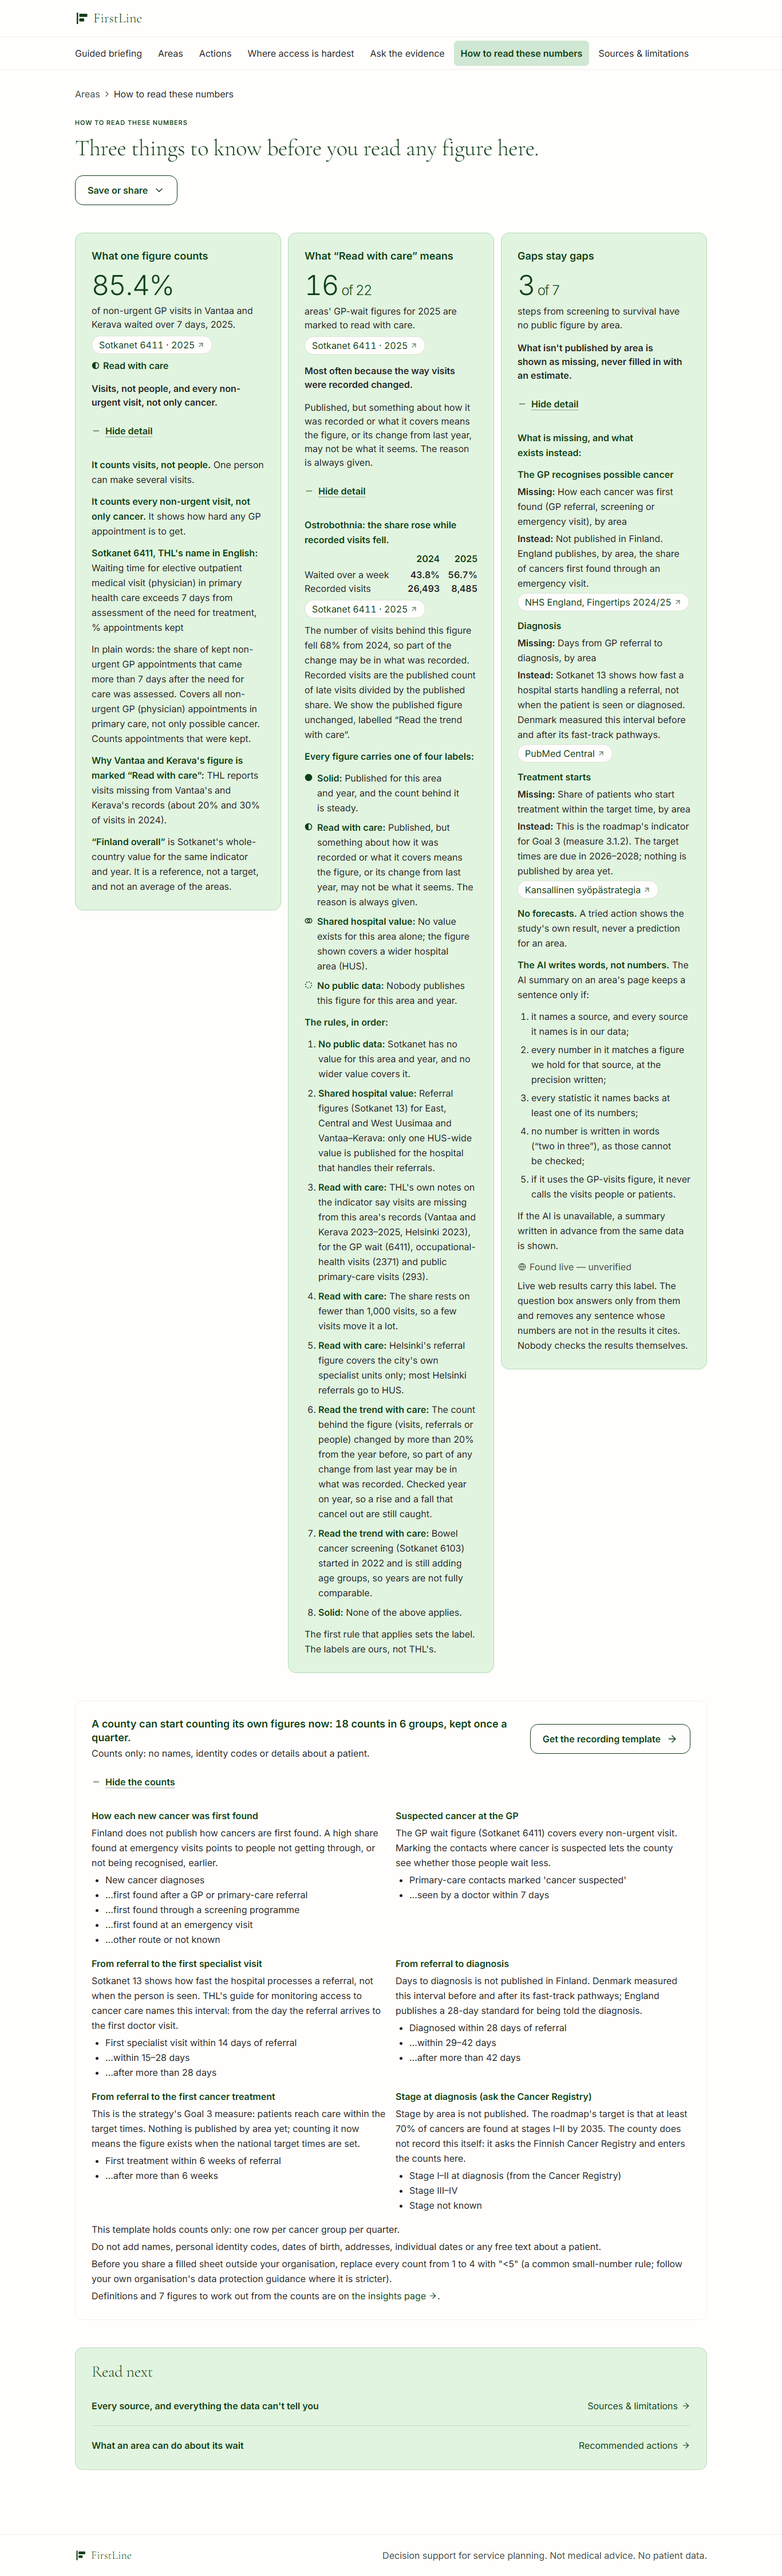
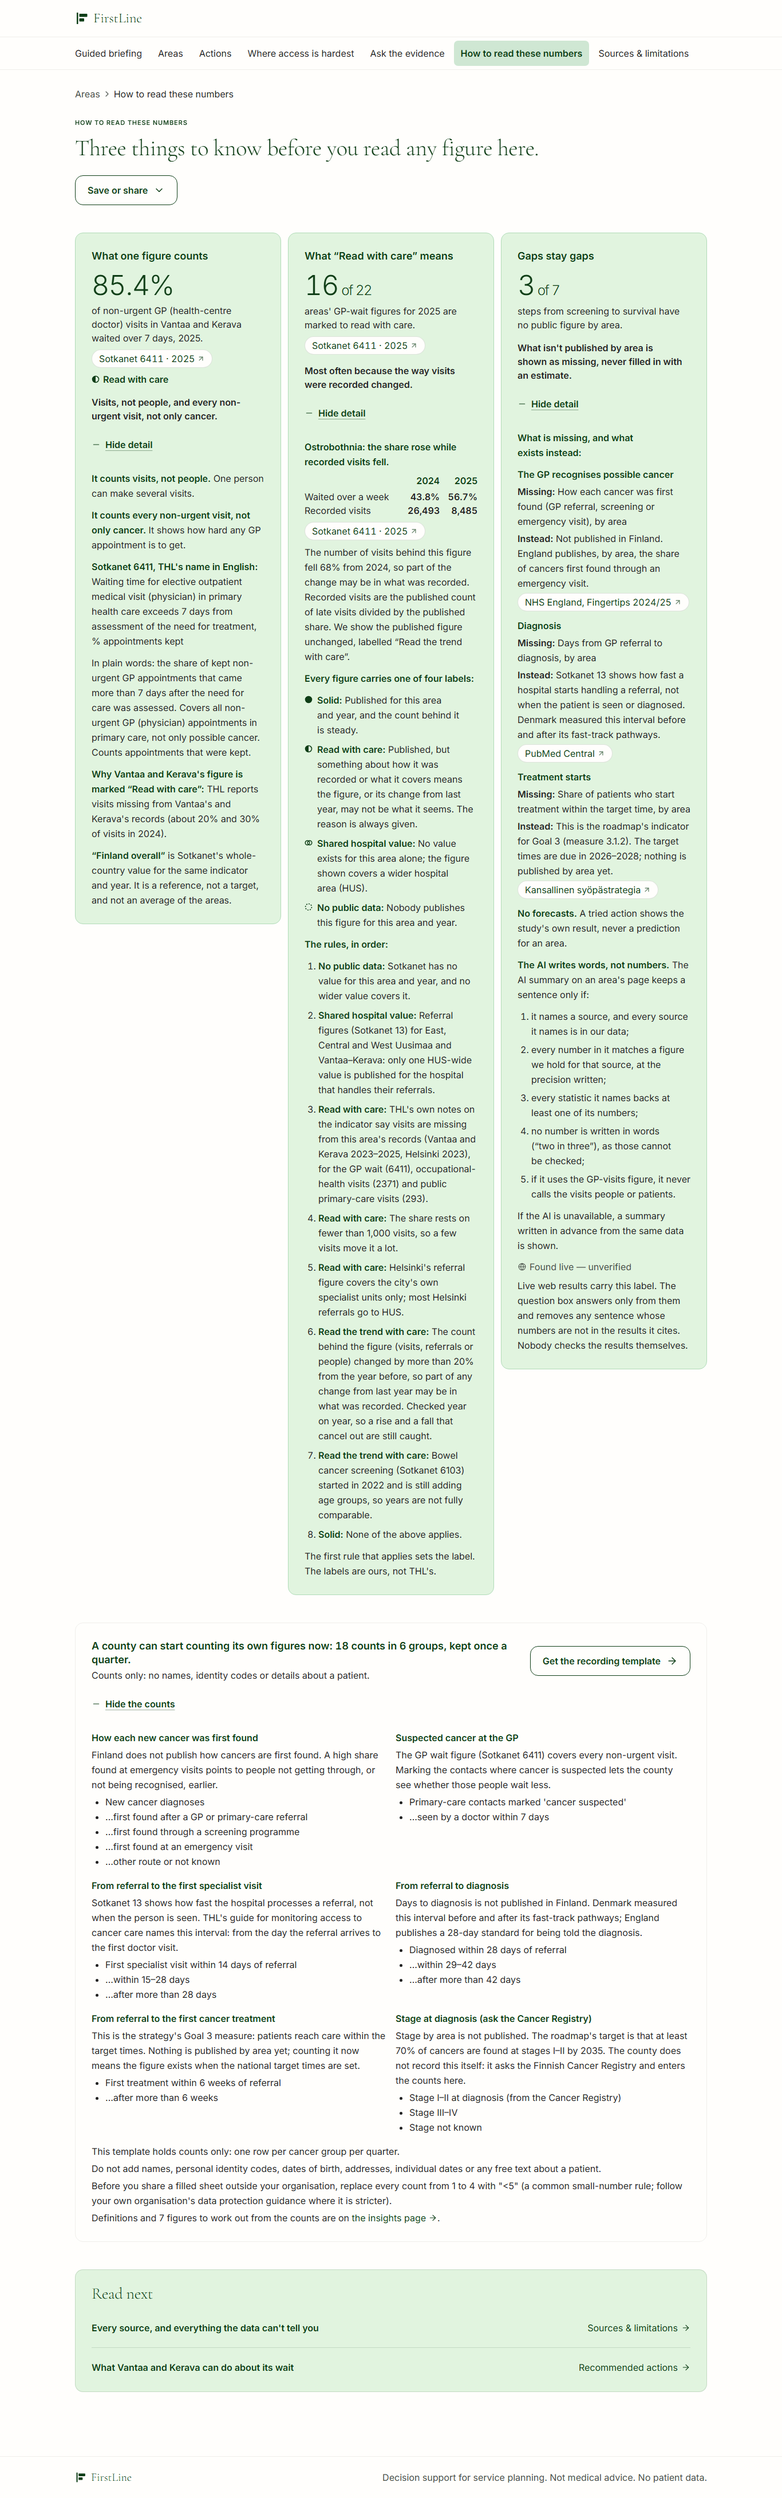
fix(how-to-read): restore the health-centre gloss, drop a repeated line, name the actions area
Card 1 keeps "GP (health-centre doctor)", which no other page carries.
Card 2 no longer repeats the "Read with care" meaning that its detail
lists. The "Read next" row names the area its actions link opens.
Notes, figures and screenshots updated (1,515px / 193 words at 1366).

diff --git a/app/how-to-read/page.tsx b/app/how-to-read/page.tsx
@@ -93,8 +93,6 @@ function Lead({ children }: { children: ReactNode }) {
 export default function HowToReadPage() {
   const lead = gpWaitAreas[0];
   const gaps = pathway.filter((slot) => !slot.published);
-  const careMeaning =
-    gradeLevels.find((level) => level.level === "care")?.meaning ?? "";
 
   return (
     <main
@@ -150,8 +148,8 @@ export default function HowToReadPage() {
                     />
                   </p>
                   <p className="text-base text-pretty text-foreground">
-                    of non-urgent GP visits in {lead.name} waited over 7 days,{" "}
-                    {YEAR}.
+                    of non-urgent GP (health-centre doctor) visits in{" "}
+                    {lead.name} waited over 7 days, {YEAR}.
                   </p>
                   <p className="flex flex-wrap items-center gap-2">
                     <SourceChip sourceId="sotkanet-6411" year={YEAR} />
@@ -345,9 +343,6 @@ export default function HowToReadPage() {
             <p className="text-base font-semibold text-pretty text-foreground">
               Most often because the way visits were recorded changed.
             </p>
-            <p className="text-base text-pretty text-foreground">
-              {careMeaning}
-            </p>
           </ReadCard>
 
           {/* 3. Gaps stay gaps */}
@@ -525,7 +520,7 @@ export default function HowToReadPage() {
             ? [
                 {
                   key: "act",
-                  label: "What an area can do about its wait",
+                  label: `What ${lead.name} can do about its wait`,
                   action: (
                     <TextLink kind="nav" href={`/county/${lead.id}/act`}>
                       Recommended actions

diff --git a/docs/audit/how-to-read/notes.md b/docs/audit/how-to-read/notes.md
@@ -6,14 +6,14 @@ Branch `t3/rework-how-to-read-page`, built on `t3/post-freeze-build-integration`
 
 1. **Top**: the breadcrumb, then the eyebrow and one serif statement: "Three things to know before you read any figure here." Then one "Save or share" (Print, Email), as on `/sources`. The sticky "See the full list of sources" bar and the "On this page" list are gone.
 2. **Three framed cards** (keylime with a sage hairline, the `/sources` limitation look). They sit in one row from 1024px and stack below that and on paper. Each card shows its figure, source chip and main caveat, with the rest behind "Show detail".
-   - **What one figure counts** (`#one-figure`): Vantaa and Kerava, 85.4% of non-urgent GP visits waited over 7 days, 2025, with the Sotkanet 6411 · 2025 chip and its "Read with care" label. Visible caveat: "Visits, not people, and every non-urgent visit, not only cancer."
+   - **What one figure counts** (`#one-figure`): Vantaa and Kerava, 85.4% of non-urgent GP (health-centre doctor) visits waited over 7 days, 2025, with the Sotkanet 6411 · 2025 chip and its "Read with care" label. Visible caveat: "Visits, not people, and every non-urgent visit, not only cancer."
      - Detail: visits, not people; not only cancer; THL's English name; the plain definition and limitation; why this area's figure is marked "Read with care"; and the **"Finland overall" explanation**: Sotkanet's whole-country value for the same indicator and year, a reference, not a target, and not an average of the areas.
-   - **What "Read with care" means** (`#trust`): 16 of 22 areas' GP-wait figures for 2025, with the 6411 chip. Visible: "Most often because the way visits were recorded changed", then the label's meaning from `data/insights/rules.json`.
+   - **What "Read with care" means** (`#trust`): 16 of 22 areas' GP-wait figures for 2025, with the 6411 chip. Visible: "Most often because the way visits were recorded changed." The label's full meaning is the second row of the four-labels list in the detail, so it is not repeated.
      - Detail: the Ostrobothnia example (43.8% → 56.7% while recorded visits went from 26,493 to 8,485, chip 6411 · 2025, and the grade's reason); the four labels with their shapes; the eight rules in order; "The labels are ours, not THL's."
    - **Gaps stay gaps** (`#not-published`): 3 of 7 steps from screening to survival have no public figure by area. Visible: "What isn't published by area is shown as missing, never filled in with an estimate."
      - Detail: each missing step (missing / instead / its source chip); "No forecasts"; the five AI-checker rules and the pre-written fallback; the "Found live — unverified" badge and the question-box rule.
 3. **One row** (`#from-monday`, kept for old links): "A county can start counting its own figures now: 18 counts in 6 groups, kept once a quarter. Counts only: no names, identity codes or details about a patient." It has a "Get the recording template" link to `/insights#starter-dataset`. "Show the counts" opens the six groups, their fields, the privacy lines and a link to the 7 derived figures.
-4. **Read next** (`MoreCard`, screen only): "Sources & limitations" (`/sources`), and "Recommended actions" for the lead area (`/county/vantaa-kerava/act`, the area the nav's Actions item defaults to).
+4. **Read next** (`MoreCard`, screen only): "Sources & limitations" (`/sources`), and "What Vantaa and Kerava can do about its wait" → "Recommended actions" (`/county/vantaa-kerava/act`). The row names the area because, unlike the nav, a static page cannot know the reader's last area; it uses the lead area, the nav's own default.
 
 Every count comes from `lib/walkthrough/model.ts` (`gpWaitAreas`, `gpGradeCounts`, `pathwayGapCount`, `pathway`, `starter`, `recordingExample`). None is typed into the page. No new numbers.
 
@@ -27,13 +27,13 @@ Visible words are counted in `<main>` with every "Show …" closed, excluding sc
 
 | | Before | After |
 |---|---|---|
-| Visible words on screen | 662 (731 raw) | **222** (221 raw) |
-| Height at 1366×768 | 8,237px | **1,596px** |
-| Height at 390×844 | 8,555px | **2,643px** |
-| Height at 1366, everything open | 11,828px | 4,496px |
-| Height at 390, everything open | 16,733px | 9,205px |
+| Visible words on screen | 662 (731 raw) | **193** (192 raw) |
+| Height at 1366×768 | 8,237px | **1,515px** |
+| Height at 390×844 | 8,555px | **2,555px** |
+| Height at 1366, everything open | 11,828px | 4,360px |
+| Height at 390, everything open | 16,733px | 9,117px |
 | "Show …" buttons | 10 | 4 |
-| Print, after `beforeprint` | 1,958 words, 0 closed | 1,426 words, 0 closed |
+| Print, after `beforeprint` | 1,958 words, 0 closed | 1,396 words, 0 closed |
 
 The target was about 2,200px. The page came in under it, so nothing was cut to reach it.
 
@@ -43,7 +43,9 @@ The target was about 2,200px. The page came in under it, so nothing was cut to r
 - Width sweep with every detail open, at 390, 768, 800, 1023, 1024, 1100 and 1366: no element pokes out of its card.
   - The first pass had the cards in three columns from 768, and in print at A4 width the Ostrobothnia table was clipped. The cards now go three-up only from 1024 (`lg`).
   - A source chip in the gaps list was 12px too wide at 1024. Its row is now `max-w-full`, so the chip truncates as the contract specifies.
-- Reduced motion and no JavaScript: same height and word count as the default (1,596px, 222 words) and the full page. Every figure is in its final state.
+- Real clicks (`page.click` on each summary) at 1366 and 390: all three "Show detail" and "Show the counts" open.
+- Reduced motion and no JavaScript: same height and word count as the default (1,515px, 193 words) and the full page. Without script the shared `Reveal` plays its CSS fade once; every block measured at opacity 1 after 2.5s (at the instant of `load` they are still fading in). Every figure is in its final state.
+- A first version of the "Read next" link ("Recommended actions for Vantaa and Kerava") overflowed 13px at 390; the area now sits in the row label and the link is short.
 - Print (A4 width, `beforeprint`): 0 of 4 `<details>` closed, cards stacked, "Save or share" and "Read next" hidden. See `screenshots/after-print-full.png`.
 - Wording on the fully open page: "Finland overall" appears. Neither "Finland's level" nor a bare "worse than Finland" appears.
 - Contrast uses the existing tokens only: charcoal and Forest Ink on keylime and on cream, and the existing chips and badges. All are listed as AA in the contract.
@@ -52,7 +54,7 @@ The target was about 2,200px. The page came in under it, so nothing was cut to r
 
 Method: every line of three or more words in the old page's print text (`before-print.txt`, all expanded) was searched in the new page's print text. Each line not found was then searched in the expanded print text of `/sources`, `/county/vantaa-kerava`, its act page, `/insights` and `/compare`, and reworded lines were checked by hand.
 
-**Still on this page (same fact, sometimes shorter words):** visits, not people; every non-urgent visit, not only cancer; 6411's official name, plain definition and limitation; the 2025 share for the lead area with its grade and reason; 16 of 22 marked "Read with care" and "most often because recording changed"; the Ostrobothnia two-year example and its explanation; the four labels and the eight rules; 3 of 7 steps not published by area; each missing step, what exists instead and its source; "we never fill one with an estimate"; no forecasts; the five AI-checker rules and the pre-written fallback (these exist nowhere else); the live-results badge and the question-box rule; 18 counts, the groups, fields, privacy lines and the 7 derived figures with their link.
+**Still on this page (same fact, sometimes shorter words):** the "GP (health-centre doctor)" gloss (found on no other page, so restored); visits, not people; every non-urgent visit, not only cancer; 6411's official name, plain definition and limitation; the 2025 share for the lead area with its grade and reason; 16 of 22 marked "Read with care" and "most often because recording changed"; the Ostrobothnia two-year example and its explanation; the four labels and the eight rules; 3 of 7 steps not published by area; each missing step, what exists instead and its source; "we never fill one with an estimate"; no forecasts; the five AI-checker rules and the pre-written fallback (these exist nowhere else); the live-results badge and the question-box rule; 18 counts, the groups, fields, privacy lines and the 7 derived figures with their link.
 
 **Added:** the "Finland overall" explanation (it was not on the old page; it is the same wording as the `/sources` limitation).
 
